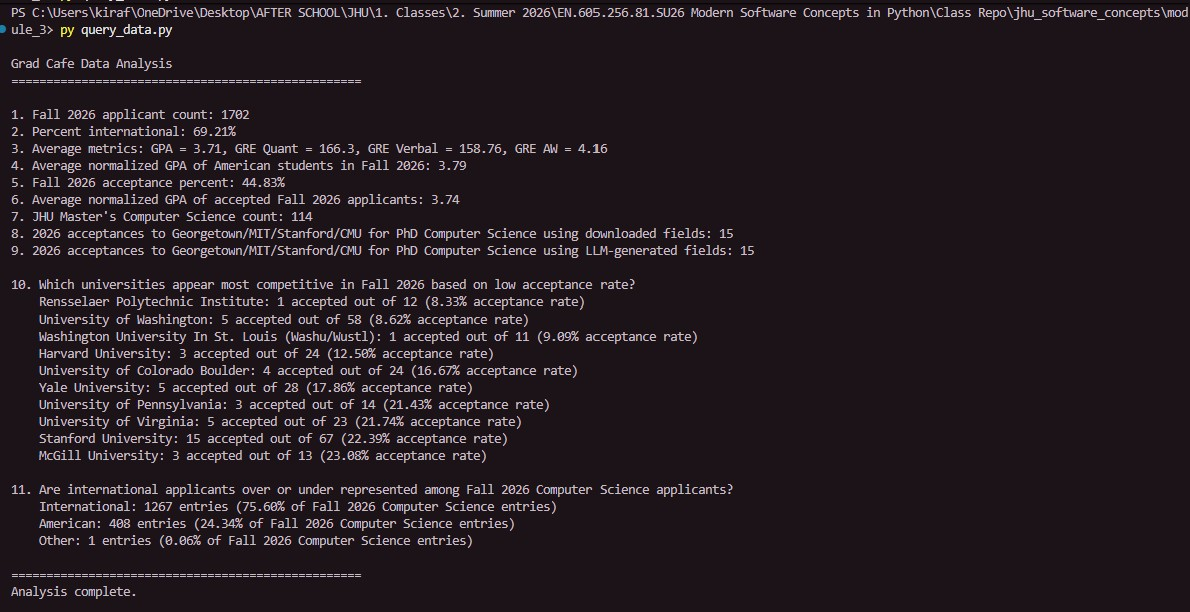
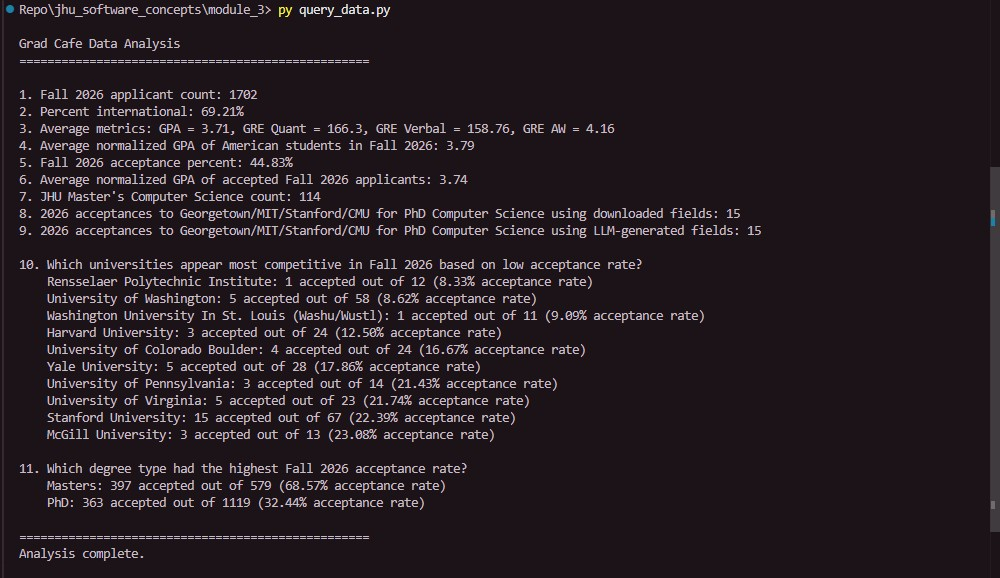
Updated Q11 and screenshots

Changed region(s): [[0.0, 0.0, 1.0, 0.9965], [0.992, 0.2803, 1.0, 0.9343], [0.31, 0.0934, 0.341, 0.1246]]

diff --git a/module_3/templates/index.html b/module_3/templates/index.html
@@ -159,24 +159,26 @@
                 </article>
 
                 <article class="card wide">
-                    <h2>11. Fall 2026 Computer Science Applicant Nationality Distribution</h2>
+                    <h2>11. Fall 2026 Acceptance Rate by Degree Type</h2>
                     <p class="note">
-                        This shows the share of Fall 2026 Computer Science entries by applicant nationality category.
+                        This compares Fall 2026 acceptance rates across degree types with at least 10 entries.
                     </p>
                     <table>
                         <thead>
                             <tr>
-                                <th>Applicant Type</th>
+                                <th>Degree Type</th>
                                 <th>Total Entries</th>
-                                <th>Percent</th>
+                                <th>Accepted</th>
+                                <th>Acceptance Rate</th>
                             </tr>
                         </thead>
                         <tbody>
-                            {% for row in results.cs_nationality_distribution %}
+                            {% for row in results.degree_acceptance_rates %}
                             <tr>
                                 <td>{{ row[0] }}</td>
                                 <td>{{ row[1] }}</td>
-                                <td>{{ row[2] }}%</td>
+                                <td>{{ row[2] }}</td>
+                                <td>{{ row[3] }}%</td>
                             </tr>
                             {% endfor %}
                         </tbody>
@@ -368,26 +370,32 @@
                     </article>
 
                     <article class="card wide">
-                        <h2>Nationality Distribution in Current Filter</h2>
+                        <h2>Degree Acceptance Rate in Current Filter</h2>
+                        <p class="note">
+                            This compares acceptance rates by degree type within the selected filters.
+                        </p>
                         <table>
                             <thead>
                                 <tr>
-                                    <th>Applicant Type</th>
+                                    <th>Degree Type</th>
                                     <th>Total Entries</th>
-                                    <th>Percent</th>
+                                    <th>Accepted</th>
+                                    <th>Acceptance Rate</th>
                                 </tr>
                             </thead>
                             <tbody>
-                                {% for row in dashboard.filtered_nationality_distribution %}
+                                {% for row in dashboard.filtered_degree_acceptance_rates %}
                                 <tr>
                                     <td>{{ row[0] }}</td>
                                     <td>{{ row[1] }}</td>
-                                    <td>{{ row[2] }}%</td>
+                                    <td>{{ row[2] }}</td>
+                                    <td>{{ row[3] }}%</td>
                                 </tr>
                                 {% endfor %}
                             </tbody>
                         </table>
                     </article>
+
                 </div>
             </section>
         </section>

diff --git a/module_3/app.py b/module_3/app.py
@@ -27,6 +27,16 @@ DB_PORT = "5432"
 BASE_DIR = Path(__file__).resolve().parent
 PULL_DATA_SCRIPT = BASE_DIR / "module_2_code" / "pull_new_data.py"
 
+NORMALIZED_GPA_SQL = """
+    CASE
+        WHEN gpa IS NULL THEN NULL
+        WHEN gpa > 2 AND gpa <= 4 THEN gpa
+        WHEN gpa > 4 AND gpa <= 5 THEN (gpa / 5.0) * 4.0
+        WHEN gpa > 5 AND gpa <= 10 THEN (gpa / 10.0) * 4.0
+        ELSE NULL
+    END
+"""
+
 
 def get_connection():
     return psycopg.connect(
@@ -246,7 +256,6 @@ def get_dashboard_results(filters):
             """, params)
             dashboard["filtered_jhu_masters_cs_count"] = cursor.fetchone()[0]
 
-            # Assignment-style filtered Q10:
             # Most competitive universities within current filter
             cursor.execute(f"""
                 SELECT
@@ -267,24 +276,24 @@ def get_dashboard_results(filters):
             """, params)
             dashboard["filtered_competitive_universities"] = cursor.fetchall()
 
-            # Assignment-style filtered Q11:
-            # Nationality distribution within current filter
+            # Degree acceptance rate within current filter
             cursor.execute(f"""
                 SELECT
-                    us_or_international,
+                    degree,
                     COUNT(*) AS total_entries,
+                    SUM(CASE WHEN status = 'Accepted' THEN 1 ELSE 0 END) AS accepted_entries,
                     ROUND(
-                        100.0 * COUNT(*) / SUM(COUNT(*)) OVER (),
+                        100.0 * SUM(CASE WHEN status = 'Accepted' THEN 1 ELSE 0 END) / COUNT(*),
                         2
-                    ) AS percentage
+                    ) AS acceptance_rate
                 FROM applicants
                 {where_sql}
-                {"AND" if where_sql else "WHERE"} us_or_international IS NOT NULL
-                AND us_or_international NOT IN ('0')
-                GROUP BY us_or_international
-                ORDER BY total_entries DESC;
+                {"AND" if where_sql else "WHERE"} degree IS NOT NULL
+                GROUP BY degree
+                HAVING COUNT(*) >= 5
+                ORDER BY acceptance_rate DESC, total_entries DESC;
             """, params)
-            dashboard["filtered_nationality_distribution"] = cursor.fetchall()
+            dashboard["filtered_degree_acceptance_rates"] = cursor.fetchall()
 
     return dashboard
 
@@ -306,24 +315,36 @@ def get_analysis_results():
             results["percent_international"] = fetch_one(cursor, """
                 SELECT ROUND(
                     100.0 * SUM(
-                        CASE 
-                            WHEN us_or_international NOT IN ('American', 'Other', '0')
-                            AND us_or_international IS NOT NULL
-                            THEN 1 ELSE 0 
+                        CASE
+                            WHEN us_or_international = 'International'
+                                OR COALESCE(comments, '') ILIKE '%%Canadian%%'
+                                OR COALESCE(comments, '') ILIKE '%%International%%'
+                            THEN 1 ELSE 0
                         END
-                    ) / COUNT(*),
+                    ) 
+                    /
+                    SUM(
+                        CASE
+                            WHEN us_or_international IN ('American', 'International', 'Other')
+                                OR COALESCE(comments, '') ILIKE '%%Canadian%%'
+                                OR COALESCE(comments, '') ILIKE '%%International%%'
+                                OR COALESCE(comments, '') ILIKE '%%US Citizen%%'
+                                OR COALESCE(comments, '') ILIKE '%%American%%'
+                            THEN 1 ELSE 0
+                        END
+                    ),
                     2
                 )
                 FROM applicants;
             """)
 
             # Q3
-            q3 = fetch_all(cursor, """
+            q3 = fetch_all(cursor, f"""
                 SELECT
-                    AVG(CASE WHEN gpa BETWEEN 0.1 AND 4.0 THEN gpa END) AS average_gpa,
+                    AVG({NORMALIZED_GPA_SQL}) AS average_gpa,
                     AVG(CASE WHEN gre BETWEEN 130 AND 170 THEN gre END) AS average_gre_quant,
                     AVG(CASE WHEN gre_v BETWEEN 130 AND 170 THEN gre_v END) AS average_gre_verbal,
-                    AVG(CASE WHEN gre_aw BETWEEN 0.5 AND 6.0 THEN gre_aw END) AS average_gre_aw
+                    AVG(CASE WHEN gre_aw BETWEEN 0.1 AND 6.0 THEN gre_aw END) AS average_gre_aw
                 FROM applicants;
             """)[0]
 
@@ -335,12 +356,15 @@ def get_analysis_results():
             }
 
             # Q4
-            results["american_fall_2026_avg_gpa"] = fetch_one(cursor, """
-                SELECT ROUND(AVG(gpa)::numeric, 2)
+            results["american_fall_2026_avg_gpa"] = fetch_one(cursor, f"""
+                SELECT ROUND(AVG({NORMALIZED_GPA_SQL})::numeric, 2)
                 FROM applicants
                 WHERE term = 'Fall 2026'
-                AND us_or_international = 'American'
-                AND gpa BETWEEN 0.1 AND 4.0;
+                AND (
+                    us_or_international = 'American'
+                    OR comments ILIKE '%%US Citizen%%'
+                )
+                AND {NORMALIZED_GPA_SQL} IS NOT NULL;
             """)
 
             # Q5
@@ -356,12 +380,12 @@ def get_analysis_results():
             """)
 
             # Q6
-            results["accepted_fall_2026_avg_gpa"] = fetch_one(cursor, """
-                SELECT ROUND(AVG(gpa)::numeric, 2)
+            results["accepted_fall_2026_avg_gpa"] = fetch_one(cursor, f"""
+                SELECT ROUND(AVG({NORMALIZED_GPA_SQL})::numeric, 2)
                 FROM applicants
                 WHERE term = 'Fall 2026'
                 AND status = 'Accepted'
-                AND gpa BETWEEN 0.1 AND 4.0;
+                AND {NORMALIZED_GPA_SQL} IS NOT NULL;
             """)
 
             # Q7
@@ -429,21 +453,21 @@ def get_analysis_results():
             """)
 
             # Q11
-            results["cs_nationality_distribution"] = fetch_all(cursor, """
+            results["degree_acceptance_rates"] = fetch_all(cursor, """
                 SELECT
-                    us_or_international,
+                    degree,
                     COUNT(*) AS total_entries,
+                    SUM(CASE WHEN status = 'Accepted' THEN 1 ELSE 0 END) AS accepted_entries,
                     ROUND(
-                        100.0 * COUNT(*) / SUM(COUNT(*)) OVER (),
+                        100.0 * SUM(CASE WHEN status = 'Accepted' THEN 1 ELSE 0 END) / COUNT(*),
                         2
-                    ) AS percent_of_fall_2026_cs_entries
+                    ) AS acceptance_rate
                 FROM applicants
                 WHERE term = 'Fall 2026'
-                AND llm_generated_program ILIKE '%%Computer Science%%'
-                AND us_or_international IS NOT NULL
-                AND us_or_international NOT IN ('0')
-                GROUP BY us_or_international
-                ORDER BY total_entries DESC;
+                AND degree IS NOT NULL
+                GROUP BY degree
+                HAVING COUNT(*) >= 10
+                ORDER BY acceptance_rate DESC;
             """)
 
     return results

diff --git a/module_3/query_data.py b/module_3/query_data.py
@@ -232,29 +232,29 @@ def main():
                 )
 
 
-            # Q11 - (Possible) Additional question 2
-            print("\n11. Are international applicants over or under represented among Fall 2026 Computer Science applicants?")
+            # Q11 - Additional question 2
+            print("\n11. Which degree type had the highest Fall 2026 acceptance rate?")
             q11 = fetch_all(cursor, """
                 SELECT
-                    us_or_international,
+                    degree,
                     COUNT(*) AS total_entries,
+                    SUM(CASE WHEN status = 'Accepted' THEN 1 ELSE 0 END) AS accepted_entries,
                     ROUND(
-                        100.0 * COUNT(*) / SUM(COUNT(*)) OVER (),
+                        100.0 * SUM(CASE WHEN status = 'Accepted' THEN 1 ELSE 0 END) / COUNT(*),
                         2
-                    ) AS percent_of_fall_2026_cs_entries
+                    ) AS acceptance_rate
                 FROM applicants
                 WHERE term = 'Fall 2026'
-                AND llm_generated_program ILIKE '%%Computer Science%%'
-                AND us_or_international IS NOT NULL
-                AND us_or_international NOT IN ('0')
-                GROUP BY us_or_international
-                ORDER BY total_entries DESC;
+                AND degree IS NOT NULL
+                GROUP BY degree
+                HAVING COUNT(*) >= 10
+                ORDER BY acceptance_rate DESC;
             """)
 
             for row in q11:
                 print(
-                    f"    {row[0]}: {row[1]} entries "
-                    f"({row[2]}% of Fall 2026 Computer Science entries)"
+                    f"    {row[0]}: {row[2]} accepted out of {row[1]} "
+                    f"({row[3]}% acceptance rate)"
                 )
 
             print("\n" + "=" * 50)